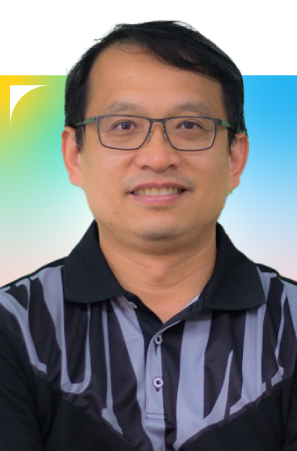
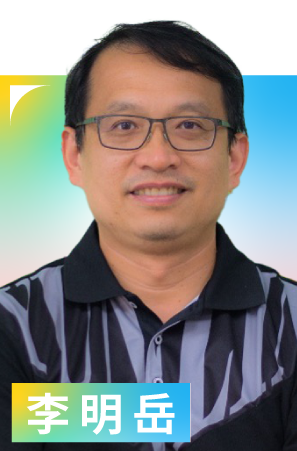
更新講者資料，調整職稱顯示樣式並替換講者圖片

Changed region(s): [[0.0303, 0.8381, 0.6667, 0.9933]]

diff --git a/src/components/Speaker.vue b/src/components/Speaker.vue
@@ -178,7 +178,7 @@
     <Title :infoData="infoData" />
     <!--<p class="text-black text-base text-center mb-6">*順序依議程表排列</p>-->
     <div v-for="(group, idx)  in speakerGroups" :key="group.type" :class="['speaker_group',{'mb-15': idx === 0}]">
-      <p class="text-4xl text-center ms:text-6xl" :style="['font-weight: 500;',{color: idx === 0 ? '#1c1c1c' : '#1c1c1c'}]">- {{ group.type }} -</p>
+      <p class="text-4xl block px-6 py-2 rounded-full bg-white shadow-2xl w-fit mx-auto text-center ms:text-6xl" :style="['font-weight: 500;',{color: idx === 0 ? '#168ee2' : '#168ee2'}]">{{ group.type }}</p>
       <div class="speaker_box max-w-[1366px] p-0 mx-auto flex flex-row flex-wrap items-start justify-center gap-[25px] sm:p-10 sm:gap-[25px] sm:flex-row sm:items-start">
         <div v-for="(item, idx) in group.items" :key="`${group.type}-${idx}`" class="speaker_item text-left flex flex-col items-center py-5 px-1 w-[33%] sm:px-5 lg:w-[18%]"
           :class="{ 'speaker_item--clickable': showSpeakerProfile }"
@@ -189,7 +189,7 @@
         >
           <div class="speaker_img relative mb-3 overflow-hidden">
             <img :src="getImgUrl(item.img)" :alt="item.name" />
-            <div class="absolute z-10 bottom-2 left-2 right-0 bg-white w-fit px-4 py-2">
+            <div class="absolute hidden z-10 bottom-2 left-2 right-0 bg-white w-fit px-4 py-2">
               <h3 class="speaker_name text-xl font-bold mb-1 sm:text-2xl tracking-[0.2em]" :style="{ color: item.color }">{{ item.name }}</h3>
               <h3 class="speaker_name_en text-xs font-bold sm:text-sm" :style="{ color: item.color }">{{ item.name_en }}</h3>
             </div>
@@ -253,6 +253,18 @@
 </template>
 
 <style scoped lang="scss">
+    :deep(.speaker-name){
+        display: inline-block;
+        padding: 0.08em 0.28em;
+        border-radius: 0.2em;
+        background-color: #1c1c1c;
+        color: #fff;
+        font-weight: 800;
+        box-decoration-break: clone;
+        -webkit-box-decoration-break: clone;
+        margin-bottom: 5px;
+        transform: scale(0.8);
+    }
     .speaker_item--clickable:hover{
       transform: translateY(-4px);
       transition: transform 0.3s ease;
